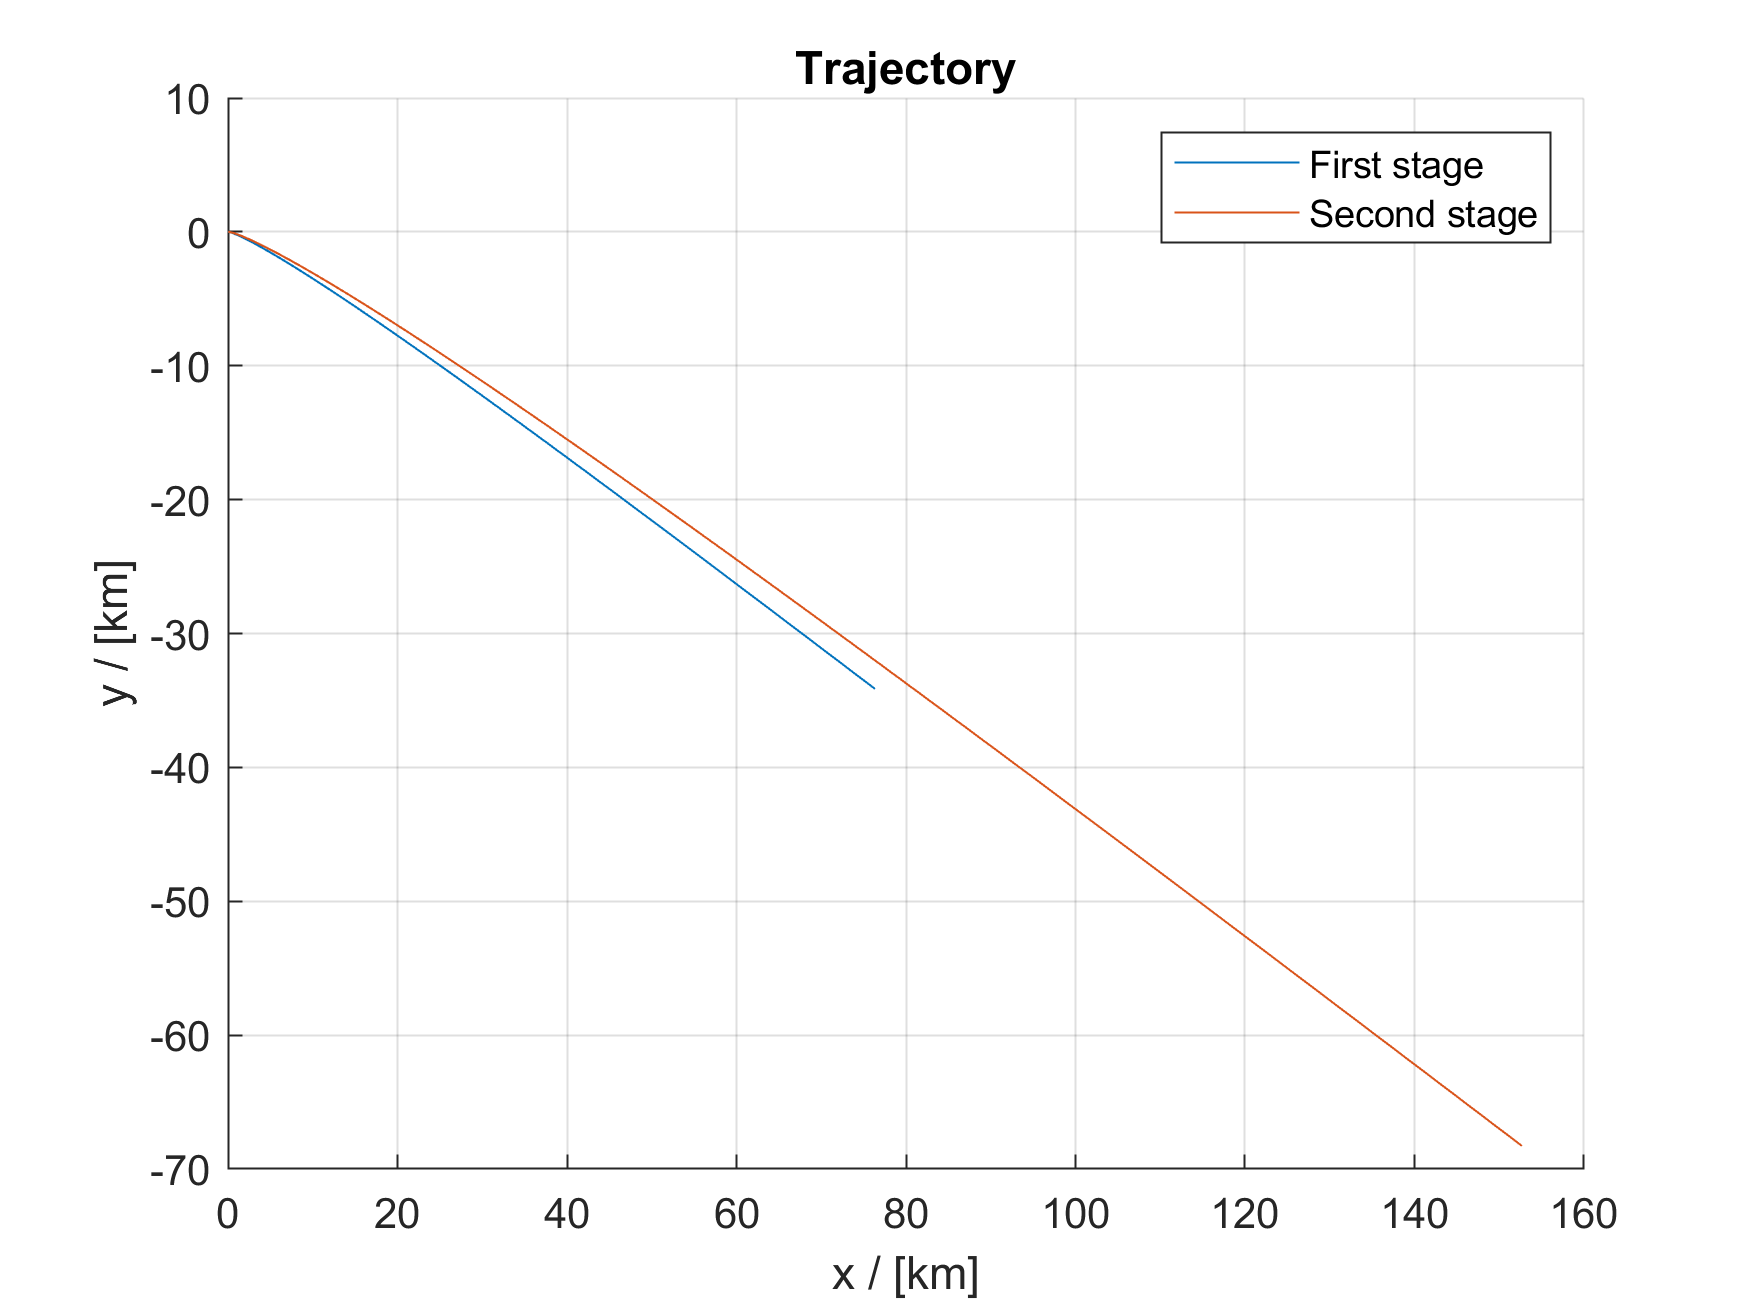
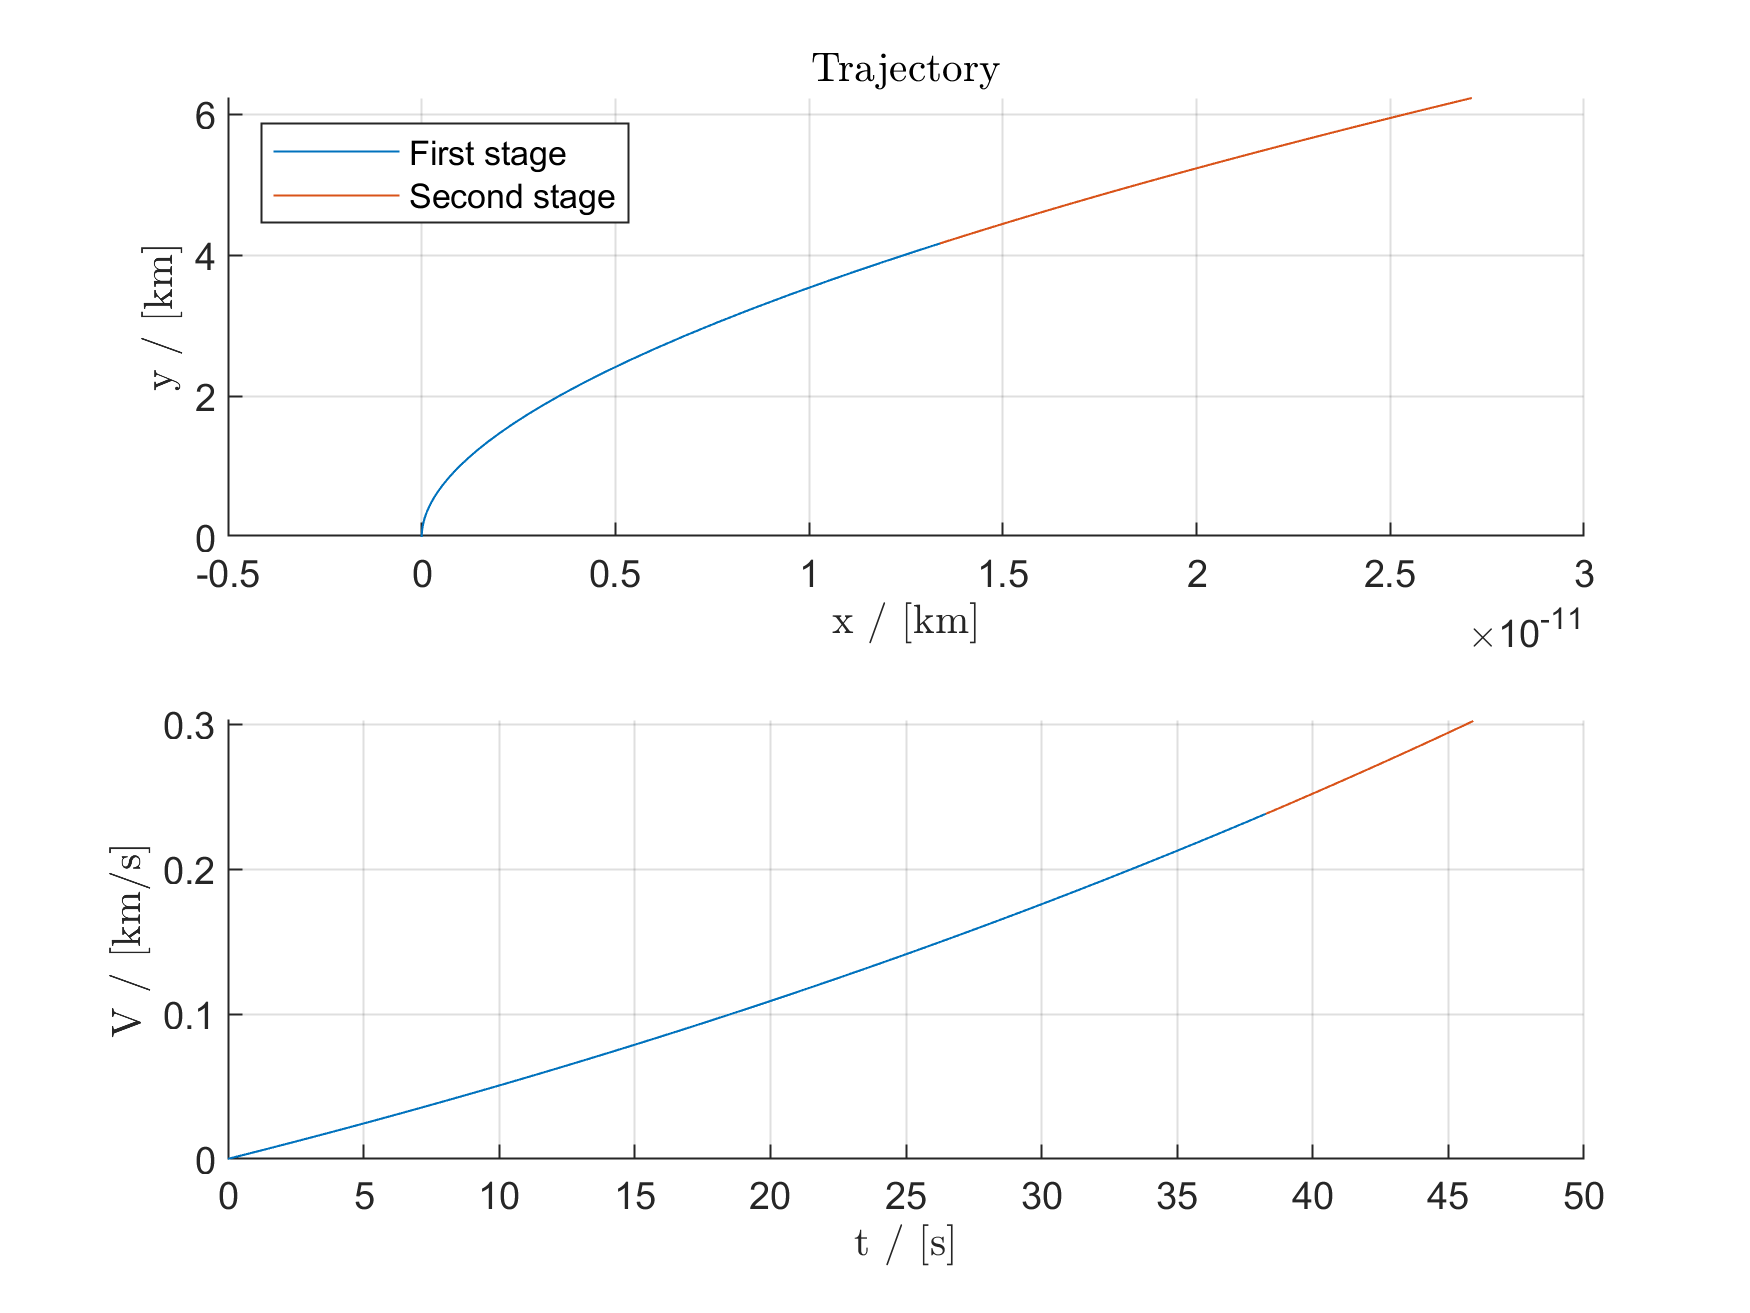
Updated structure for generalizability and readability
Contructed two new classes (Stage, SteeringModule) that
- Stage: Stores mass, aerodynamics and thrust properties
- SteeringModule: Stores steering parameters and contains methods to update direction

diff --git a/solve_trajectory.m b/solve_trajectory.m
@@ -1,27 +1,41 @@
-function [t, u_list] = solve_trajectory(t_0, u_0, m_p, burn_rate_function, V_e, A_e, p_e, C_d, A, steering_function)
-%solve_trajectory Finds the trajectory with gravity turn
-%   Detailed explanation goes here
+function [t, u_list] = solve_trajectory(t_0, u_0, stage, steering_module)
+%solve_trajectory Finds the gravity turn trajectory of a stage with 
+%   Solves the gravity turn ODE of the given Stage with a corresponding
+%   SteeringModule at specified initial conditions.
 
     % Earth paramters
     % global R_e g_0;
     R_e = 6371000;
     g_0 = 9.81;
     
-    % Rocket parameters
-    tspan = [t_0, t_0+m_p/br];
+    % Timespan
+    t_span = [t_0, t_0+stage.m_p/steering_module.get_burn_rate(u_0)];
+    
+% TODO: Make solution for variable burn rate (calculate for large
+% timespan and then find the t range until all propelant has been
+% used) Below is a start.
+
+%     if steering_module.burn_rate_is_constant
+%         t_span = [t_0, t_0+stage.m_p/steering_module.get_burn_rate(u_0)];
+%     else
+%         t_span = [t_0, t_0+1000];
+
+%     end
+    
     
     % Solver
-    [t, u_list] = ode45(@(t,u) odefunction(t,u), tspan, u_0);
+    [t, u_list] = ode45(@(t,u) odefunction(t,u), t_span, u_0);
     
     %% Ode function
     function Du = odefunction(t, u)
         V = u(1);
-        gamma = u(2); 
-        X = u(3); 
+        gamma = steering_module.steer_angle(u);
+        X = u(3);
         H = u(4);
         m = u(5);
+        current_burn_rate = steering_module.get_burn_rate(u);
         
-        T = thrust(burn_rate(), H);
+        T = thrust(current_burn_rate, H);
         D = drag(V, H);
         g = gravity(H);
         
@@ -29,7 +43,7 @@ function [t, u_list] = solve_trajectory(t_0, u_0, m_p, burn_rate_function, V_e, 
         Dgamma = -1/V*(g-V^2/(R_e+H))*cos(gamma);
         DX = V*cos(gamma);
         DH = V*sin(gamma);
-        Dm = - burn_rate();
+        Dm = - current_burn_rate();
         
         Du = [DV, Dgamma, DX, DH, Dm]';
     end
@@ -39,21 +53,17 @@ function [t, u_list] = solve_trajectory(t_0, u_0, m_p, burn_rate_function, V_e, 
         % global V_e p_e A_e;
         [~,~,p_a ,~] = atmosisa(H);
         
-        T = br*V_e + (p_e-p_a)*A_e;
+        T = br*stage.V_e + (stage.p_e-p_a)*stage.A_e;
     end
 
     function D = drag(V, H)
         [~,~,~, rho] = atmosisa(H);
         
-        D = 1/2*rho*C_d*A*V^2;
+        D = 1/2*rho*stage.C_d*stage.A*V^2;
     end
 
     function g = gravity(H)
         g = g_0*(R_e/(R_e+H))^2;
-    end
-
-    function rate = burn_rate()
-       rate = br;
     end
 
 end

diff --git a/main.m b/main.m
@@ -1,34 +1,46 @@
 %% Falcon 9 first stage test
-m_0 = 549000;
+
+m_0 = 549000*5;
 m_p = 500000;
-I_sp = 311;
-%V_e = 9.82*I_sp
+A = (3.66/2)^2*pi;
 V_e = 3050;
 p_e = 100000;
-t_0 = 0;
-A = (3.66/2)^2*pi;
 A_e = (1.25/2)^2*pi;
-function out = burn_rate_function()
-    out =   1451.9;
-end
-
-% This is a comment I've added, among other changes
-    
-%% Single stage test
-u_0 = [0.1, 45*pi/180, 0, 0, m_0]';
 C_d = 0.1;
-br = 1451*9; %kg/s
 
-[t_list, u_list] = solve_trajectory(t_0, u_0, m_p, br, V_e, A_e, p_e, C_d, A); 
+falcon_9_first_stage = Stage(m_0, m_p, A, C_d, V_e, p_e, A_e);
+falcon_9_second_stage = Stage(m_0/5, m_p/5, A/5, C_d, V_e, p_e*.8, A_e);
 
-x = u_list(:,3)
-y = u_list(:,4)
+steering_module = SteeringModule();
+steering_module = steering_module.set_programmed_turn(10000, -2);
+steering_module = steering_module.set_constant_burn_rate(1451.9*9);
+
+%% Construct rocket stage list
+
+number_of_stages = 2;
+stages = {falcon_9_first_stage, falcon_9_second_stage}; 
+steering_modules = {steering_module, steering_module};
+
+%% Compute
+t_0 = 0;
+u_0 = [0.1, 90*pi/180, 0, 0, m_0]';
+stage_trajectories = cell(number_of_stages, 2);
+for n = 1:number_of_stages
+    dur_max = 1000;
+    [t_list, u_list] = solve_trajectory(t_0, u_0, stages{n}, steering_modules{n}); 
+    stage_trajectories(n,:) = {t_list, u_list};
+    t_0 = t_list(end);
+    u_0 = u_list(end,:);
+end
+    
+x = u_list(:,3);
+y = u_list(:,4);
 
 %% Plot and savefig
 x1 = x;
 y1 = y;
-x2 = x*2;
-y2 = y*2;
+x2 = x+x(end);
+y2 = y+y(end);
 
 trajectories = {
     x1, y1; 
@@ -36,4 +48,4 @@ trajectories = {
 };
 
 legends = ["First stage", "Second stage"];
-visualize(trajectories, legends);
+visualize(number_of_stages, stage_trajectories, legends);

diff --git a/visualize.m b/visualize.m
@@ -1,19 +1,39 @@
-function visualize(stage_trajectories, legends)
+function visualize(number_of_stages, stage_trajectories, legends)
+    % visualize Plots the trajectory and velocities of the stages.
+    
+    subplot(2,1,1)
+    hold on
+    grid on
+    subplot(2,1,2)
     hold on
     grid on
     
-    s = size(stage_trajectories)
-    number_of_stages = s(1)
-    for i = 1:number_of_stages
-        x = stage_trajectories{i,1};
-        y = stage_trajectories{i,2};    
+    set(0,'defaulttextinterpreter','latex')
+    set(0,'DefaultTextFontname', 'CMU Serif')
+    set(0,'DefaultAxesFontName', 'CMU Serif')
+    
+    for n = 1:number_of_stages
+        t_list = stage_trajectories{n,1};
+        u_list = stage_trajectories{n,2};
+        x = u_list(:,3);
+        y = u_list(:,4);
+        V = u_list(:,1);
+        subplot(2,1,1)
         plot(x/1000,y/1000)
+        subplot(2,1,2)
+        plot(t_list, V/1000);
     end
     
+    subplot(2,1,1)
     xlabel("x / [km]")
     ylabel("y / [km]")
+    subplot(2,1,2)
+    xlabel("t / [s]")
+    ylabel("V / [km/s]")
+    
+    subplot(2,1,1)
     title("Trajectory")
-    legend(legends)
+    legend(legends, 'location', 'northwest', 'fontname', 'CMU Serif')
 
     print("plot.png", "-dpng", "-r300")
 end
